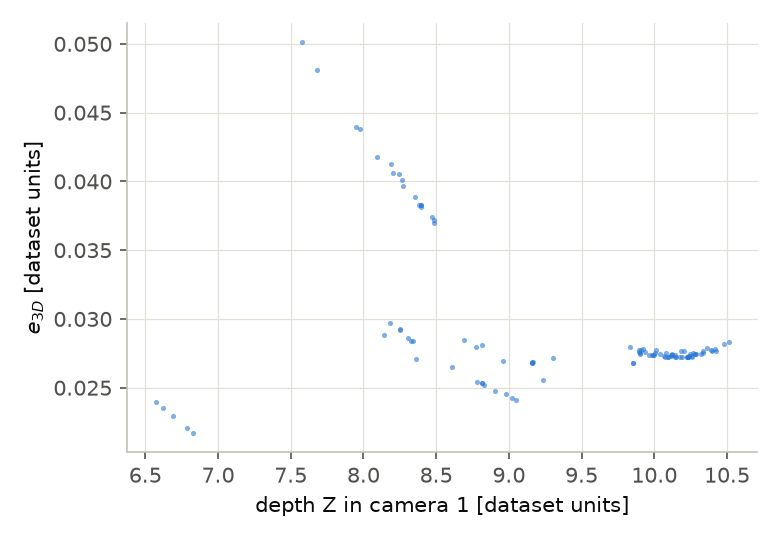
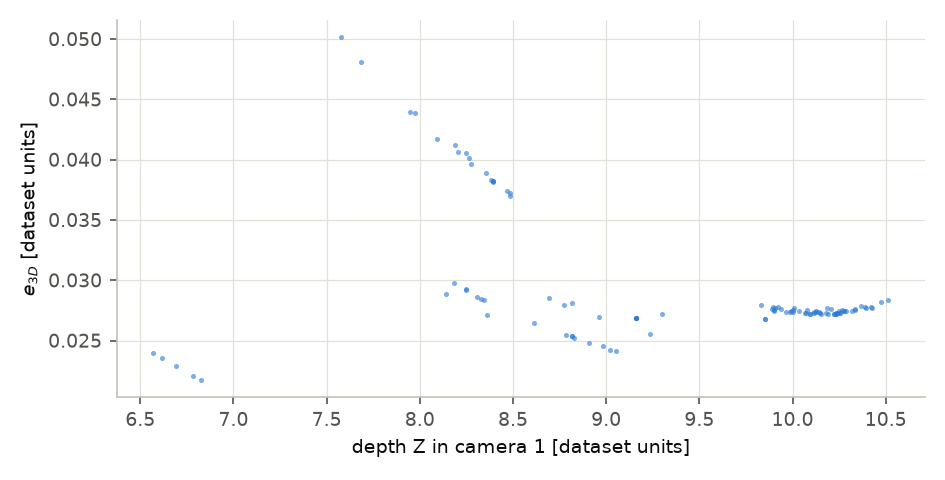
Redraw task 2 and 3 plots at report width
The figures are drawn at the 16 cm text width so the labels keep their size, each panel has a title, and the legend of the error plot explains the min-max band of the 30 RANSAC runs. The point cloud figure has the 3D view on top and the top and front views below. The numbers are unchanged.

diff --git a/maman01/utils/plots.py b/maman01/utils/plots.py
@@ -66,23 +66,30 @@ def save_table(rows, out_path, fieldnames=None):
 
 # colors for line plots (blue, orange) and chart ink
 SERIES_COLORS = ("#2a78d6", "#eb6834")
+REPORT_WIDTH_IN = 6.3          # text width of the report page (16 cm)
 INK, MUTED, GRID = "#0b0b0b", "#52514e", "#e1e0d9"
 
 
-def plot_vs_index(x, panels, out_path, xlabel="image index"):
+def plot_vs_index(x, panels, out_path, xlabel="image index", height=None, band_label=None):
     """
     One row of subplots that share the x axis (the image index).
     panels: list of dicts
-        {"ylabel": str, "log": bool, "ylim": (lo, hi) or None,
+        {"title": str (optional), "ylabel": str, "log": bool, "ylim": (lo, hi) or None,
          "series": [{"y": [...], "label": str, "lo": [...], "hi": [...]}, ...]}
     lo / hi are optional and drawn as a light band (e.g. min / max over the
-    RANSAC repeats). Each panel holds quantities with the same unit.
+    RANSAC repeats), described in the legend by band_label. Each panel holds
+    quantities with the same unit.
+    The figure is drawn at the width it has in the report (16 cm), so the
+    text keeps its real size.
     """
     import matplotlib
     matplotlib.use("Agg")
     import matplotlib.pyplot as plt
 
-    fig, axes = plt.subplots(1, len(panels), figsize=(5.2 * len(panels), 3.6), squeeze=False)
+    from matplotlib.patches import Patch
+    plt.rcParams.update({"font.size": 9})
+    h = height or (3.0 if len(panels) > 1 else 3.8)
+    fig, axes = plt.subplots(1, len(panels), figsize=(REPORT_WIDTH_IN, h), squeeze=False)
     for ax, panel in zip(axes[0], panels):
         for k, s in enumerate(panel["series"]):
             color = SERIES_COLORS[k]
@@ -96,6 +103,8 @@ def plot_vs_index(x, panels, out_path, xlabel="image index"):
         ax.set_xticks(list(x))
         ax.set_xlabel(xlabel, color=INK)
         ax.set_ylabel(panel["ylabel"], color=INK)
+        if panel.get("title"):
+            ax.set_title(panel["title"], color=INK, fontsize=10)
         ax.grid(True, color=GRID, linewidth=0.6)
         ax.set_axisbelow(True)
         for side in ("top", "right"):
@@ -103,8 +112,13 @@ def plot_vs_index(x, panels, out_path, xlabel="image index"):
         for side in ("left", "bottom"):
             ax.spines[side].set_color("#c3c2b7")
         ax.tick_params(colors=MUTED)
-        if len(panel["series"]) > 1:
-            ax.legend(frameon=False)
+        has_band = any(s.get("lo") is not None for s in panel["series"])
+        if len(panel["series"]) > 1 or has_band:
+            handles, labels = ax.get_legend_handles_labels()
+            if has_band and band_label:
+                handles.append(Patch(facecolor="#9a9a9a", alpha=0.35, linewidth=0))
+                labels.append(band_label)
+            ax.legend(handles, labels, frameon=False, loc="upper left")
     fig.tight_layout()
     ensure_dir(os.path.dirname(os.path.abspath(out_path)))
     fig.savefig(out_path, dpi=150, facecolor="white")
@@ -140,9 +154,11 @@ def plot_point_clouds(X_gt, X_est, out_path, labels=("ground truth", "estimated"
                                   label="camera 1"))
         return handles
 
-    fig = plt.figure(figsize=(16, 5.5))
+    plt.rcParams.update({"font.size": 9})
+    fig = plt.figure(figsize=(REPORT_WIDTH_IN, 7.2))
+    grid = fig.add_gridspec(2, 2, height_ratios=[1.1, 1])
 
-    ax = fig.add_subplot(1, 3, 1, projection="3d")
+    ax = fig.add_subplot(grid[0, :], projection="3d")
     ax.scatter(X_est[:, 0], X_est[:, 1], X_est[:, 2], c="tab:red", **kw)
     ax.scatter(X_gt[:, 0], X_gt[:, 1], X_gt[:, 2], c="tab:blue", **kw)
     ax.set_xlabel("X [dataset units]")
@@ -151,7 +167,7 @@ def plot_point_clouds(X_gt, X_est, out_path, labels=("ground truth", "estimated"
     ax.set_title("3D view (camera 1 frame)")
     ax.legend(handles=legend_handles(False), loc="upper right")
 
-    ax = fig.add_subplot(1, 3, 2)
+    ax = fig.add_subplot(grid[1, 0])
     ax.scatter(X_est[:, 0], X_est[:, 2], c="tab:red", **kw)
     ax.scatter(X_gt[:, 0], X_gt[:, 2], c="tab:blue", **kw)
     ax.plot([0], [0], marker="^", ms=9, color="black")
@@ -162,7 +178,7 @@ def plot_point_clouds(X_gt, X_est, out_path, labels=("ground truth", "estimated"
     ax.grid(True, alpha=0.3)
     ax.legend(handles=legend_handles(True))
 
-    ax = fig.add_subplot(1, 3, 3)
+    ax = fig.add_subplot(grid[1, 1])
     ax.scatter(X_est[:, 0], -X_est[:, 1], c="tab:red", **kw)
     ax.scatter(X_gt[:, 0], -X_gt[:, 1], c="tab:blue", **kw)
     ax.set_xlabel("X [dataset units]")

diff --git a/maman01/task2_viewpoint.py b/maman01/task2_viewpoint.py
@@ -74,8 +74,8 @@ def make_plots(rows):
     col = lambda k: [r[k] for r in rows]
 
     plot_vs_index(x, [
-        {"ylabel": r"$N_{inliers}$ (consistent with $F_{GT}$)", "series": [{"y": col("n_inliers_FGT"), "label": "N_inliers"}]},
-        {"ylabel": r"$r_{inliers} = N_{inliers} / N$", "ylim": (0, 1.02), "series": [{"y": col("r_inliers_FGT"), "label": "r_inliers"}]},
+        {"title": "Number of consistent matches", "ylabel": r"$N_{inliers}$ (consistent with $F_{GT}$)", "series": [{"y": col("n_inliers_FGT"), "label": "N_inliers"}]},
+        {"title": "Share of consistent matches", "ylabel": r"$r_{inliers} = N_{inliers} / N$", "ylim": (0, 1.02), "series": [{"y": col("r_inliers_FGT"), "label": "r_inliers"}]},
     ], os.path.join(OUT, "plot_inliers.png"))
 
     # log scale: the errors go from ~0.1 deg to tens of degrees
@@ -84,11 +84,11 @@ def make_plots(rows):
             {"y": col("e_R_deg"), "lo": col("e_R_min"), "hi": col("e_R_max"), "label": r"$e_R$ (rotation)"},
             {"y": col("e_t_deg"), "lo": col("e_t_min"), "hi": col("e_t_max"), "label": r"$e_t$ (translation direction)"},
         ]},
-    ], os.path.join(OUT, "plot_errors.png"))
+    ], os.path.join(OUT, "plot_errors.png"), band_label="range over the 30 RANSAC runs (min-max)")
 
     plot_vs_index(x, [
-        {"ylabel": "baseline [dataset units]", "series": [{"y": col("baseline"), "label": "baseline"}]},
-        {"ylabel": "relative rotation angle [deg]", "series": [{"y": col("rot_angle_deg"), "label": "rotation"}]},
+        {"title": "Baseline", "ylabel": "baseline [dataset units]", "series": [{"y": col("baseline"), "label": "baseline"}]},
+        {"title": "Relative rotation angle", "ylabel": "relative rotation angle [deg]", "series": [{"y": col("rot_angle_deg"), "label": "rotation"}]},
     ], os.path.join(OUT, "plot_geometry.png"))
 
 

diff --git a/maman01/task3_reconstruction.py b/maman01/task3_reconstruction.py
@@ -132,7 +132,8 @@ def plot_e3d_vs_depth(depth, e3d, out_path):
     import matplotlib.pyplot as plt
     from utils.plots import GRID, INK, MUTED, SERIES_COLORS
 
-    fig, ax = plt.subplots(figsize=(5.2, 3.6))
+    plt.rcParams.update({"font.size": 9})
+    fig, ax = plt.subplots(figsize=(6.3, 3.2))      # report width, so the text keeps its size
     ax.scatter(depth, e3d, s=6, color=SERIES_COLORS[0], alpha=0.6, linewidths=0)
     ax.set_xlabel("depth Z in camera 1 [dataset units]", color=INK)
     ax.set_ylabel(r"$e_{3D}$ [dataset units]", color=INK)
